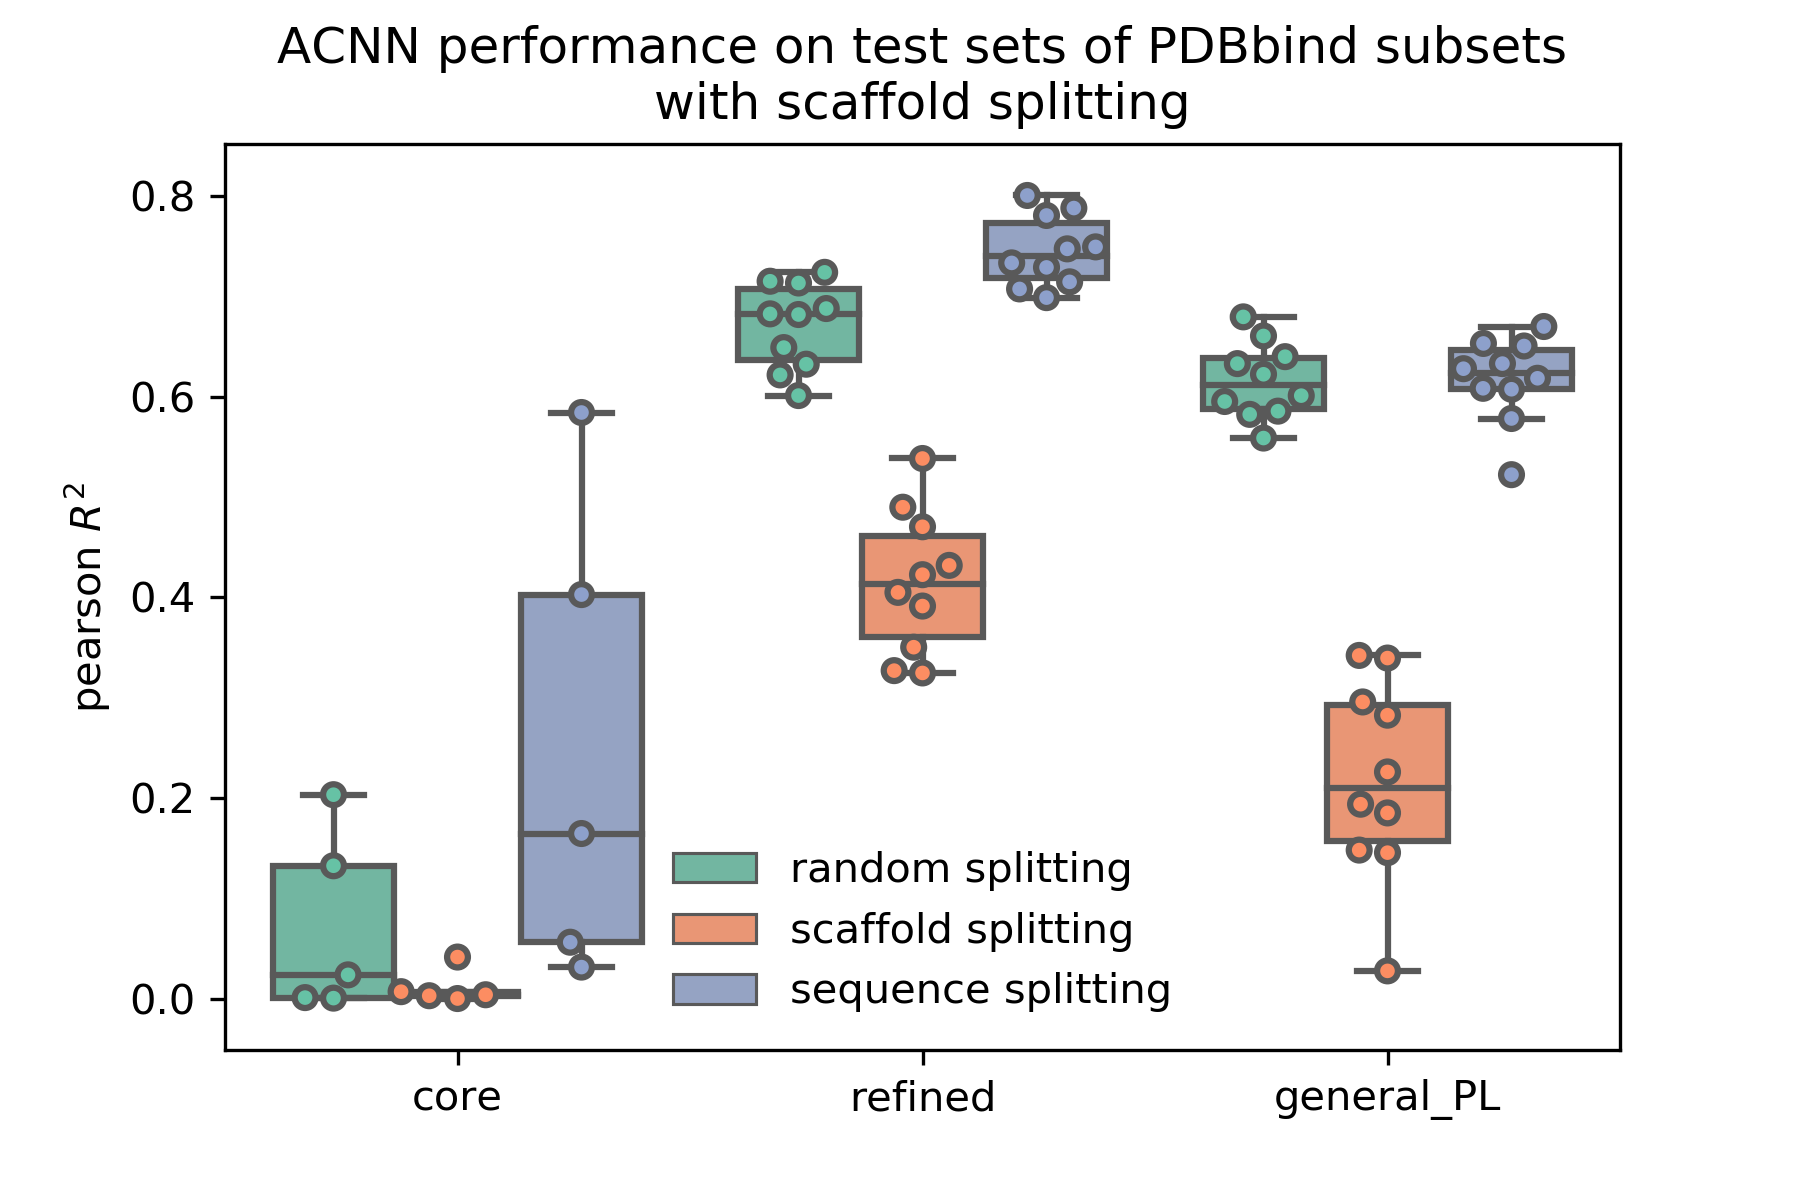
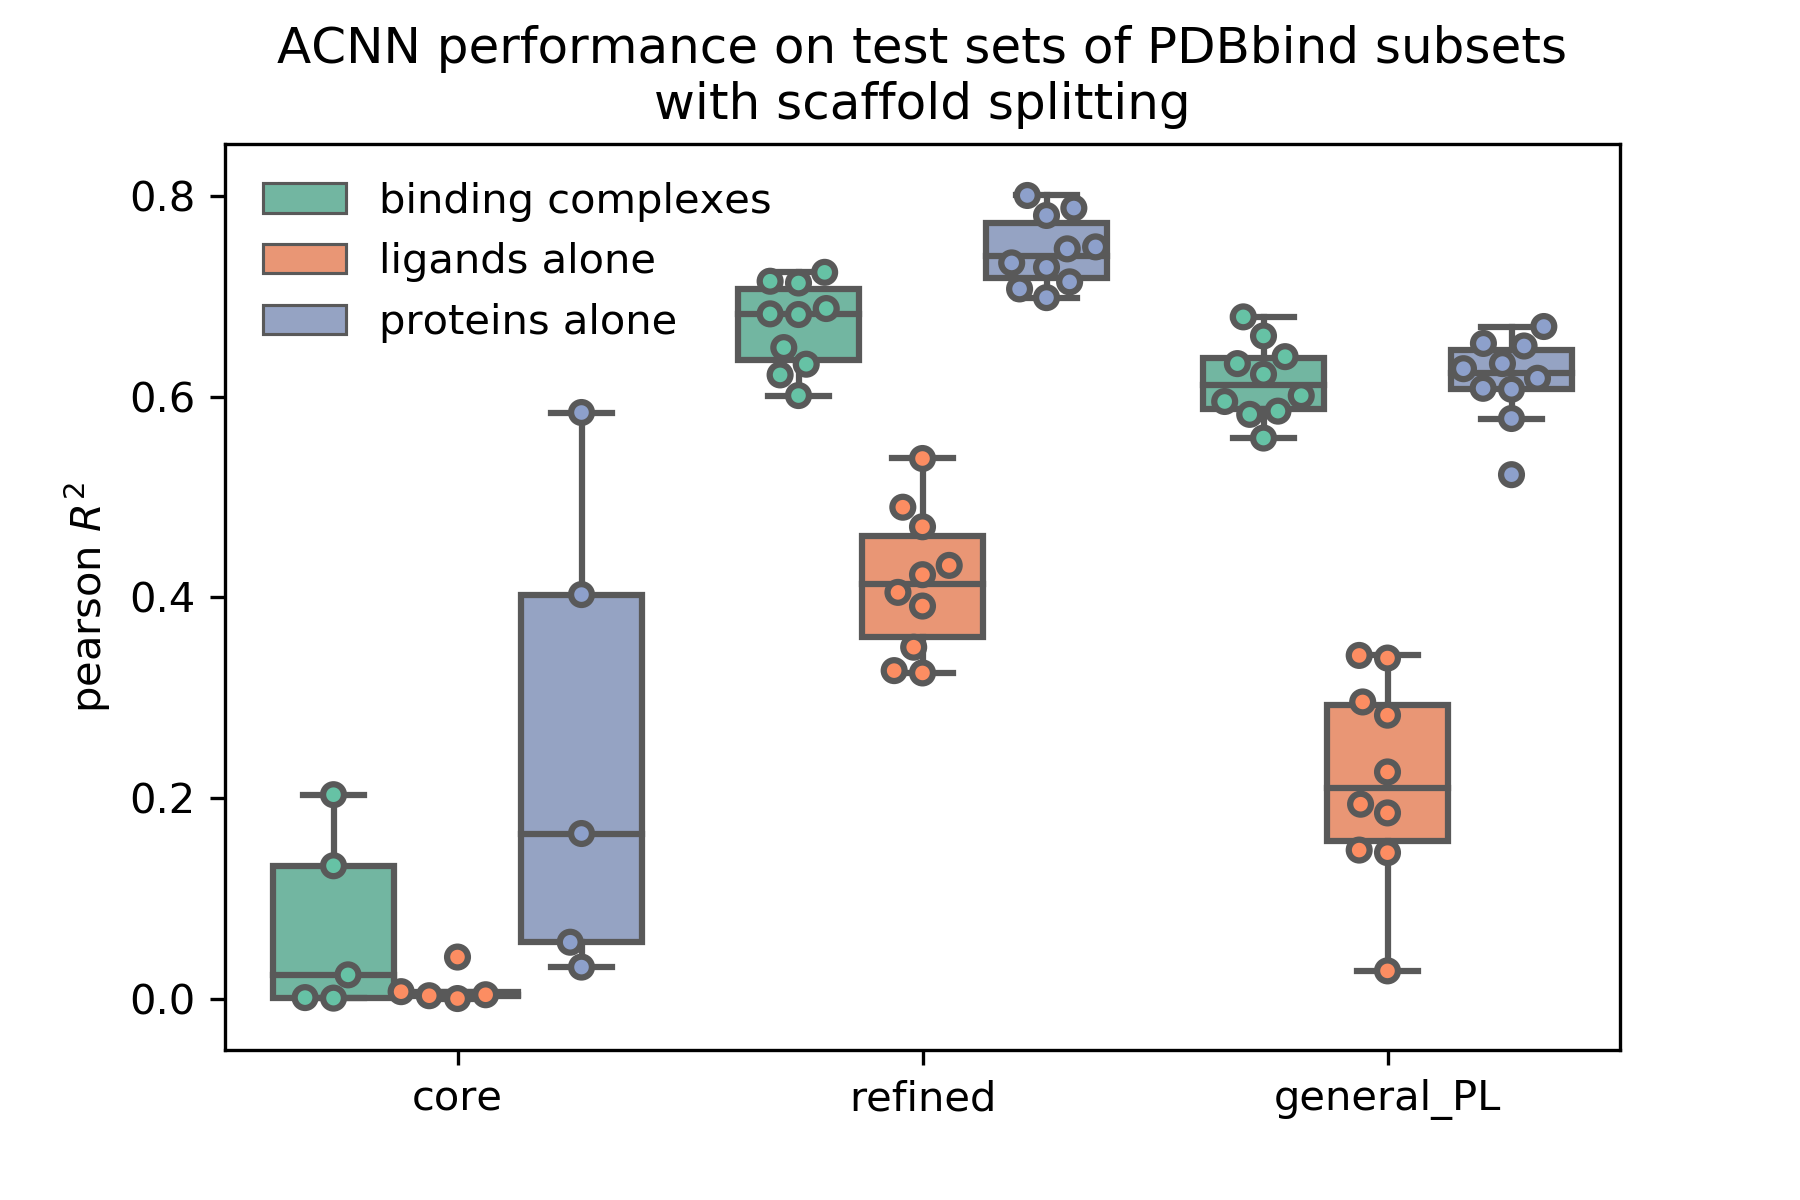
fix bug in PDBbind figures

Changed region(s): [[0.3733, 0.7092, 0.6533, 0.8633], [0.1244, 0.1542, 0.4356, 0.2775]]

diff --git a/pdbbind/figures/box.py b/pdbbind/figures/box.py
@@ -89,8 +89,8 @@ for metric, metric_name in zip(metrics, metric_names):
         # l = ax.legend(handles[0:2], labels[0:2], bbox_to_anchor=(1.05, 1), loc=2, borderaxespad=0.)
         loc = 'best'
         if metric == 'pearson_r2_score':
-            loc = 'lower center'
-        l = ax.legend(handles[0:3], split_names, frameon=False, loc=loc)
+            loc = 'upper left'
+        l = ax.legend(handles[0:3], cpn_names, frameon=False, loc=loc)
         ax.set_xlabel('')
         ax.set_ylabel(metric_name)
         ax.set_title(
